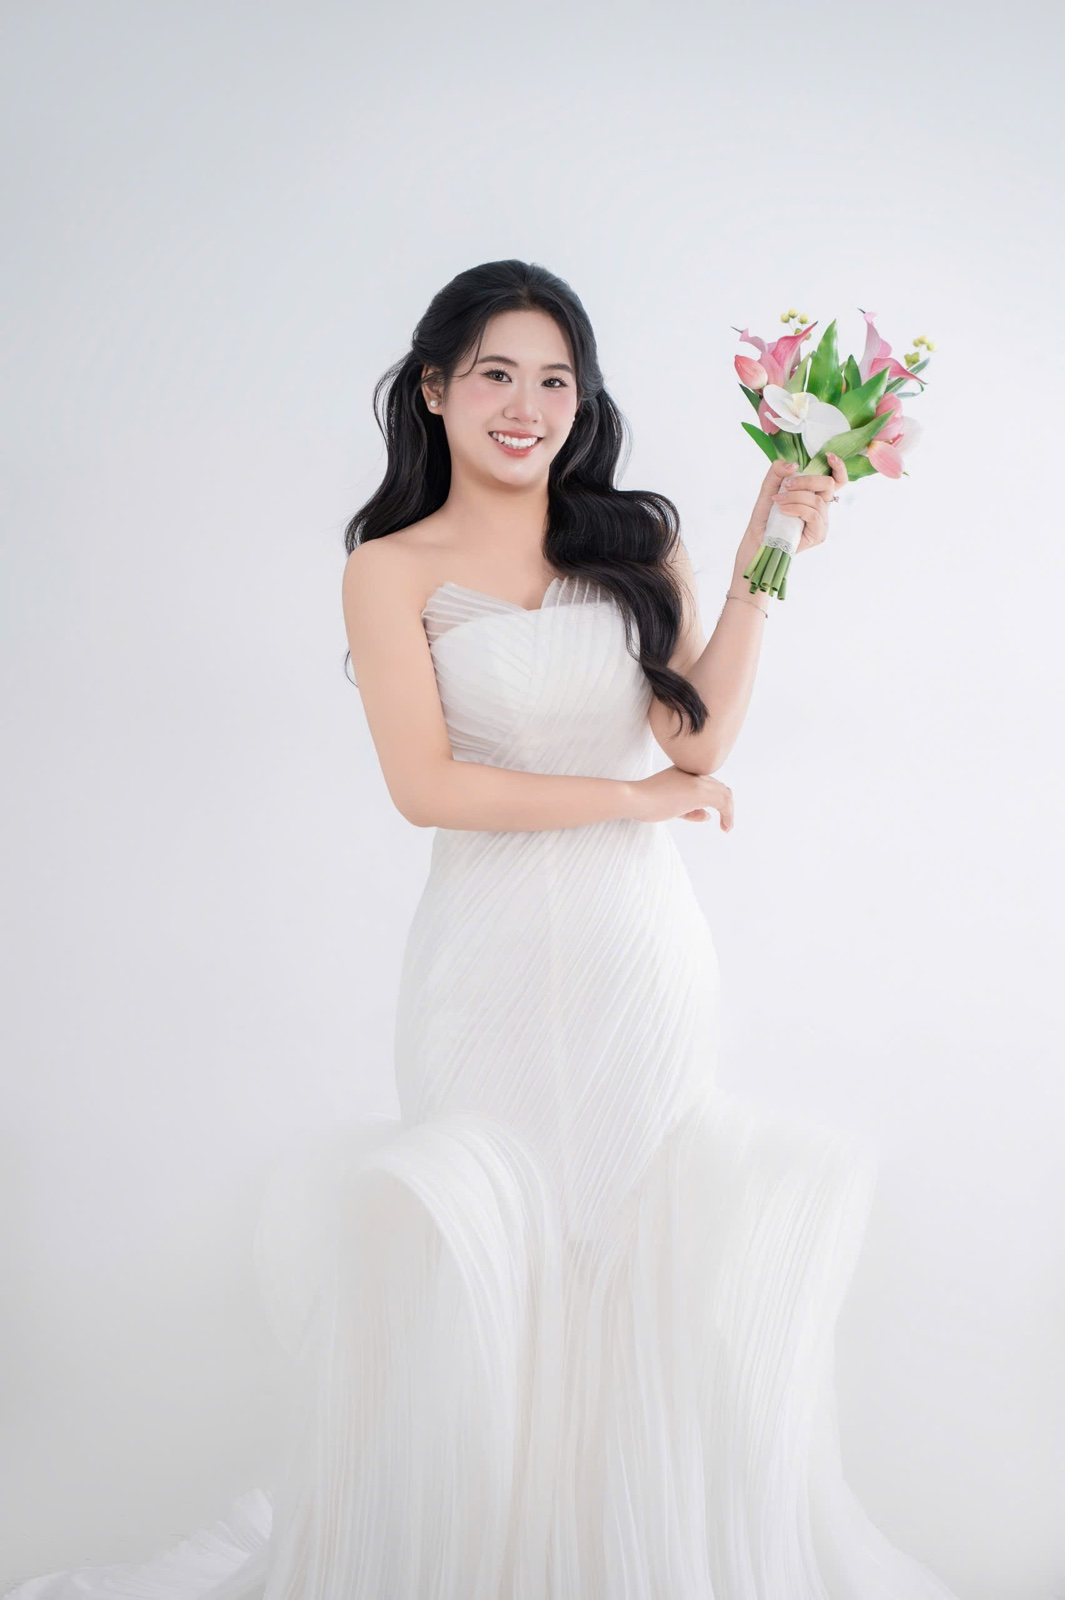
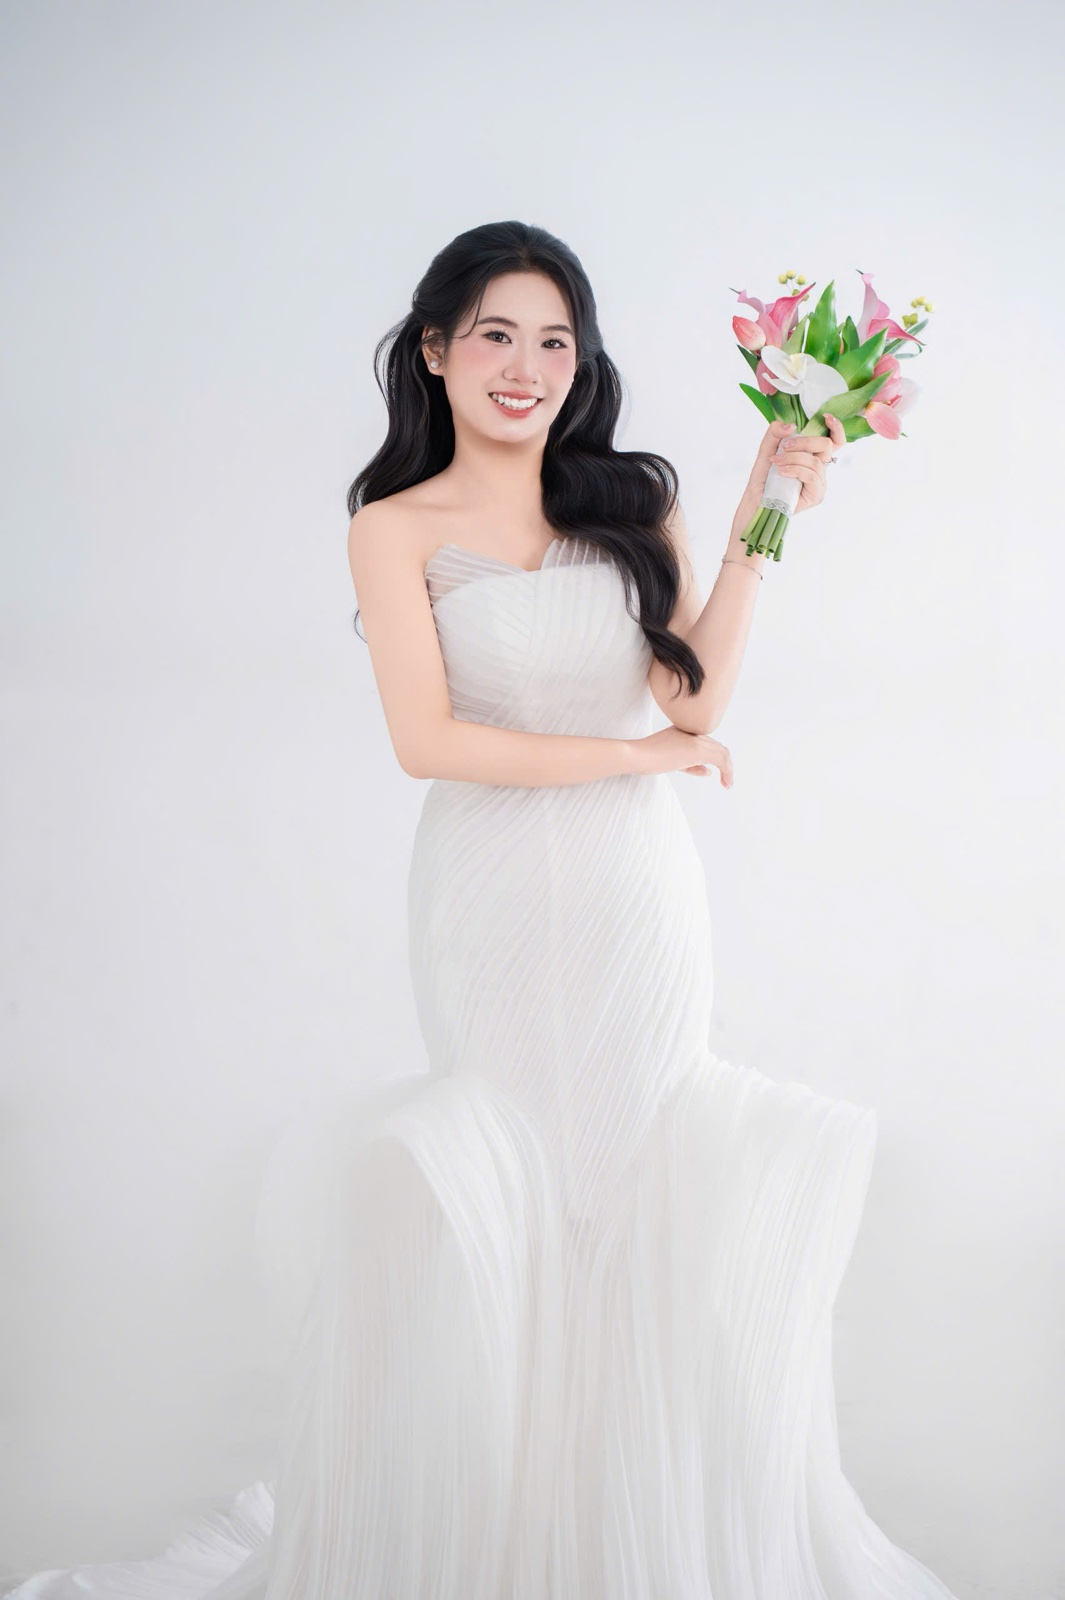
fix: album chỉ gồm ảnh chưa dùng ở các mục trên — thêm 8 ảnh khách gửi trong bình luận, bản cắt sát thay 2 ảnh cũ trùng cảnh (issue #32)

Changed region(s): [[0.3099, 0.125, 0.8986, 0.5312]]

diff --git a/dist/assets/index-CCNkx_cG.js b/dist/assets/index-CCNkx_cG.js
@@ -104,7 +104,7 @@ Error generating stack: `+i.message+`
  * See the LICENSE file in the root directory of this source tree.
  */const rp=et("X",[["path",{d:"M18 6 6 18",key:"1bl5f8"}],["path",{d:"m6 6 12 12",key:"d8bk6v"}]]),lp="382 Ngô Quyền, Phường Lào Cai, Thành phố Lào Cai",yc="Xã Chất Bình, Tỉnh Ninh Bình",ip="Đường Ngô Quyền, Kim Tân, Phường Lào Cai, Tỉnh Lào Cai",op={label:"Nhà Gái",father:"Vũ Văn Đông",mother:"Nguyễn Thị Vang",address:lp},up={label:"Nhà Trai",father:"Trần Văn Phong",mother:"Đỗ Thị Bích",address:yc},sp={hero:{subtitle:"Save The Date",names:["Huyền Trang","Xuân Bình"],dateLine:"13 . 11 . 2026",quote:"We step into a new chapter together, hand in hand, ready to build our home and embrace a lifetime of love."},families:{sides:[op,up],fullNames:["Huyền Trang","Xuân Bình"]},invitation:{kicker:"Trân Trọng Kính Mời",defaultGuest:"Quý khách",title:`Tham Dự Lễ Vu Quy
 Của Hai Con Chúng Tôi`,dateParts:["13","11","2026"]},events:{mapLabel:"Xem chỉ đường",items:[{id:"vu-quy",title:"Tiệc Mừng Lễ Vu Quy",time:"10:30, Thứ Sáu",date:"13. 11. 2026",lunar:"( Tức Ngày 05 Tháng 10 Năm Bính Ngọ )",places:[{label:"Quảng Trường Tráng A Pao",address:ip,mapQuery:"22.482020,103.979747"}]},{id:"thanh-hon",title:"Lễ Thành Hôn",time:"09:00, Thứ Bảy",date:"14. 11. 2026",lunar:"( Tức Ngày 06 Tháng 10 Năm Bính Ngọ )",places:[{label:"Tư Gia Nhà Trai",address:yc,mapQuery:"20.128537,106.125285"}]}]},quoteImage:`Two hearts, one love,
-one beautiful journey`,timeline:{title:"Timeline",items:[{time:"10:30 - 13/11",label:"Lễ Vu Quy",icon:"bouquet"},{time:"09:00 - 14/11",label:"Lễ Thành Hôn",icon:"rings"}]},countdown:{title:"Countdown",target:"2026-11-13T10:30:00+07:00",labels:["Ngày","Giờ","Phút","Giây"]},calendar:{dateIso:"2026-11-13"},moments:{title:["Our","Moments"],captions:["Forever","Love you"],text:"A collection of memories we've shared together"},rsvp:{endpoint:"https://script.google.com/macros/s/AKfycbxGFb49383QZuzEF1D_sx_JSNSCecscN3j2aZShNuCGpbDiKK9bwoPawGo5Y_pKbacu/exec",coupleId:"huyen-trang-xuan-binh-nha-gai",coupleName:"Huyền Trang & Xuân Bình (nhà gái)",show:!0,askAttend:!0,title:"Xác Nhận Tham Dự",intro:"Hãy xác nhận tham dự để chúng mình chuẩn bị đón tiếp thật chu đáo. Trân Trọng!",placeholders:{name:"Họ và Tên",message:"Gửi lời chúc cho Dâu Rể",attend:"Bạn có tham dự không ?",guestCount:"Bạn đi bao nhiêu người ?"},attendYes:"Có, mình sẽ đến",attendNo:"Tiếc quá, hôm đấy mình bận mất rồi :(",submit:"Xác Nhận",sending:"Đang gửi...",error:"Gửi chưa được, bạn kiểm tra mạng rồi thử lại nhé!",thanks:"Cảm ơn bạn! Lời chúc của bạn đã được ghi nhận."},gift:{button:"Gửi Mừng Cưới",title:"Hộp Quà Mừng Cưới",copyLabel:"Copy STK",copiedLabel:"Đã copy",saveQrLabel:"Lưu ảnh QR",accounts:[]},thanks:{title:"Thank You",text:"Từ tận đáy lòng, chúng mình cảm ơn bạn đã dành tình cảm và sự hiện diện cho ngày vui này. Chính bạn đã góp phần làm nên một kỷ niệm hạnh phúc mà chúng mình sẽ luôn trân trọng.",sign:"Huyền Trang & Xuân Bình"},music:{src:"/music/beautiful-in-white.mp3",volume:.45}},te={hero:"/images/ao-dai-1.jpg",dateStrip:["/images/co-dau-cuoi.jpg","/images/ao-dai-2.jpg","/images/chu-re-chao.jpg"],quote:"/images/nam-tay.jpg",countdown:"/images/hoa-1.jpg",moments:["/images/co-dau-hoa.jpg","/images/chao-doi.jpg","/images/chu-re.jpg"],album:["/images/nam-tay.jpg","/images/ao-dai-1.jpg","/images/co-dau-ngoi.jpg","/images/chu-re-chao.jpg","/images/co-dau-cuoi.jpg","/images/ao-dai-3.jpg","/images/hoa-1.jpg","/images/studio-1.jpg","/images/ao-dai-2.jpg","/images/co-dau-hoa.jpg","/images/studio-2.jpg","/images/chu-re.jpg","/images/co-dau-dung.jpg","/images/co-dau-sau.jpg"],circle:"/images/voan.jpg",gift:"/images/studio-1.jpg",thankYou:"/images/ao-dai-3.jpg",deco:{heart:"/images/deco-heart.png",calla:"/images/deco-calla.png",callaCorner:"/images/deco-calla-corner.png",timeline:"/images/deco-timeline.png",wreath:"/images/deco-wreath.png",bouquet:"/images/deco-bouquet.png",fork:"/images/deco-fork.png",rings:"/images/deco-rings.png"}},Ju="guest-links:names",ap="/tao-link";function cp(){try{return window.location.pathname.replace(/\/+$/,"")===ap}catch{return!1}}function Jl(e,t){return`${e}/?khach=${encodeURIComponent(t)}`}async function fp(e){try{return await navigator.clipboard.writeText(e),!0}catch{const t=document.createElement("textarea");t.value=e,t.style.position="fixed",t.style.opacity="0",document.body.appendChild(t),t.select();const n=document.execCommand("copy");return document.body.removeChild(t),n}}function bu({text:e,label:t="Sao chép",className:n=""}){const[r,l]=T.useState(!1);async function i(){await fp(e)&&(l(!0),setTimeout(()=>l(!1),1500))}return s.jsxs("button",{type:"button",onClick:i,className:`inline-flex shrink-0 items-center gap-1.5 rounded-lg px-3 py-1.5 text-sm font-semibold transition ${r?"bg-green-600 text-white":"bg-[#9e3745] text-white hover:bg-[#7e2b37]"} ${n}`,children:[r?s.jsx(vc,{className:"h-4 w-4","aria-hidden":!0}):s.jsx(gc,{className:"h-4 w-4","aria-hidden":!0}),r?"Đã chép":t]})}function dp(){const e=T.useMemo(()=>window.location.origin,[]),[t,n]=T.useState(()=>{try{return localStorage.getItem(Ju)??""}catch{return""}}),[r,l]=T.useState(!0);T.useEffect(()=>{try{localStorage.setItem(Ju,t)}catch{}},[t]);const i=T.useMemo(()=>{const a=new Set;return t.split(`
+one beautiful journey`,timeline:{title:"Timeline",items:[{time:"10:30 - 13/11",label:"Lễ Vu Quy",icon:"bouquet"},{time:"09:00 - 14/11",label:"Lễ Thành Hôn",icon:"rings"}]},countdown:{title:"Countdown",target:"2026-11-13T10:30:00+07:00",labels:["Ngày","Giờ","Phút","Giây"]},calendar:{dateIso:"2026-11-13"},moments:{title:["Our","Moments"],captions:["Forever","Love you"],text:"A collection of memories we've shared together"},rsvp:{endpoint:"https://script.google.com/macros/s/AKfycbxGFb49383QZuzEF1D_sx_JSNSCecscN3j2aZShNuCGpbDiKK9bwoPawGo5Y_pKbacu/exec",coupleId:"huyen-trang-xuan-binh-nha-gai",coupleName:"Huyền Trang & Xuân Bình (nhà gái)",show:!0,askAttend:!0,title:"Xác Nhận Tham Dự",intro:"Hãy xác nhận tham dự để chúng mình chuẩn bị đón tiếp thật chu đáo. Trân Trọng!",placeholders:{name:"Họ và Tên",message:"Gửi lời chúc cho Dâu Rể",attend:"Bạn có tham dự không ?",guestCount:"Bạn đi bao nhiêu người ?"},attendYes:"Có, mình sẽ đến",attendNo:"Tiếc quá, hôm đấy mình bận mất rồi :(",submit:"Xác Nhận",sending:"Đang gửi...",error:"Gửi chưa được, bạn kiểm tra mạng rồi thử lại nhé!",thanks:"Cảm ơn bạn! Lời chúc của bạn đã được ghi nhận."},gift:{button:"Gửi Mừng Cưới",title:"Hộp Quà Mừng Cưới",copyLabel:"Copy STK",copiedLabel:"Đã copy",saveQrLabel:"Lưu ảnh QR",accounts:[]},thanks:{title:"Thank You",text:"Từ tận đáy lòng, chúng mình cảm ơn bạn đã dành tình cảm và sự hiện diện cho ngày vui này. Chính bạn đã góp phần làm nên một kỷ niệm hạnh phúc mà chúng mình sẽ luôn trân trọng.",sign:"Huyền Trang & Xuân Bình"},music:{src:"/music/beautiful-in-white.mp3",volume:.45}},te={hero:"/images/ao-dai-1.jpg",dateStrip:["/images/co-dau-cuoi.jpg","/images/ao-dai-2.jpg","/images/chu-re-chao.jpg"],quote:"/images/nam-tay.jpg",countdown:"/images/hoa-1.jpg",moments:["/images/co-dau-hoa.jpg","/images/chao-doi.jpg","/images/chu-re.jpg"],album:["/images/hoa-2.jpg","/images/voan-2.jpg","/images/co-dau-ngoi.jpg","/images/quan-phuc.jpg","/images/studio-3.jpg","/images/co-dau-dung.jpg","/images/hoa-3.jpg","/images/studio-2.jpg","/images/studio-4.jpg","/images/studio-1.jpg"],circle:"/images/voan.jpg",gift:"/images/co-dau-sau.jpg",thankYou:"/images/ao-dai-3.jpg",deco:{heart:"/images/deco-heart.png",calla:"/images/deco-calla.png",callaCorner:"/images/deco-calla-corner.png",timeline:"/images/deco-timeline.png",wreath:"/images/deco-wreath.png",bouquet:"/images/deco-bouquet.png",fork:"/images/deco-fork.png",rings:"/images/deco-rings.png"}},Ju="guest-links:names",ap="/tao-link";function cp(){try{return window.location.pathname.replace(/\/+$/,"")===ap}catch{return!1}}function Jl(e,t){return`${e}/?khach=${encodeURIComponent(t)}`}async function fp(e){try{return await navigator.clipboard.writeText(e),!0}catch{const t=document.createElement("textarea");t.value=e,t.style.position="fixed",t.style.opacity="0",document.body.appendChild(t),t.select();const n=document.execCommand("copy");return document.body.removeChild(t),n}}function bu({text:e,label:t="Sao chép",className:n=""}){const[r,l]=T.useState(!1);async function i(){await fp(e)&&(l(!0),setTimeout(()=>l(!1),1500))}return s.jsxs("button",{type:"button",onClick:i,className:`inline-flex shrink-0 items-center gap-1.5 rounded-lg px-3 py-1.5 text-sm font-semibold transition ${r?"bg-green-600 text-white":"bg-[#9e3745] text-white hover:bg-[#7e2b37]"} ${n}`,children:[r?s.jsx(vc,{className:"h-4 w-4","aria-hidden":!0}):s.jsx(gc,{className:"h-4 w-4","aria-hidden":!0}),r?"Đã chép":t]})}function dp(){const e=T.useMemo(()=>window.location.origin,[]),[t,n]=T.useState(()=>{try{return localStorage.getItem(Ju)??""}catch{return""}}),[r,l]=T.useState(!0);T.useEffect(()=>{try{localStorage.setItem(Ju,t)}catch{}},[t]);const i=T.useMemo(()=>{const a=new Set;return t.split(`
 `).map(c=>c.replace(/\s+/g," ").trim()).filter(c=>c&&!a.has(c.toLowerCase())&&a.add(c.toLowerCase()))},[t]),o=i.map(a=>r?`${a}: ${Jl(e,a)}`:Jl(e,a)),u=document.title;return s.jsx("div",{className:"min-h-screen bg-[#f8f6f2] px-4 py-8 font-sans text-[#1f1f1f]",children:s.jsxs("main",{className:"mx-auto max-w-[640px]",children:[s.jsx("h1",{className:"text-2xl font-bold",children:"Tạo link mời khách"}),s.jsxs("p",{className:"mt-1 text-sm text-black/60",children:["Thiệp: ",s.jsx("b",{children:u})]}),s.jsx("label",{className:"mt-6 block text-sm font-semibold",htmlFor:"guest-names",children:"Tên khách mời — mỗi dòng một người, ghi cả xưng hô (vd: Cô Lan, Gia đình bác Hùng, Anh Tuấn)"}),s.jsx("textarea",{id:"guest-names",value:t,onChange:a=>n(a.target.value),rows:8,placeholder:`Cô Lan
 Gia đình bác Hùng
 Anh Tuấn & chị Mai`,className:"mt-2 w-full rounded-xl border border-black/20 bg-white p-3 text-base outline-none focus:border-[#9e3745]"}),s.jsx("p",{className:"mt-1 text-xs text-black/50",children:"Danh sách được lưu trên trình duyệt này, mở lại trang vẫn còn."}),i.length>0&&s.jsxs(s.Fragment,{children:[s.jsxs("div",{className:"mt-6 flex flex-wrap items-center justify-between gap-3",children:[s.jsxs("p",{className:"font-semibold",children:[i.length," link"]}),s.jsxs("div",{className:"flex items-center gap-3",children:[s.jsxs("label",{className:"flex items-center gap-1.5 text-sm",children:[s.jsx("input",{type:"checkbox",checked:r,onChange:a=>l(a.target.checked)}),"Kèm tên khi chép tất cả"]}),s.jsx(bu,{text:o.join(`

diff --git a/src/image.js b/src/image.js
@@ -13,27 +13,23 @@ export const images = {
   countdown: '/images/hoa-1.jpg',
   /** Our Moments: ảnh dọc trên, ảnh nhỏ phải (ảnh ngang), ảnh lớn dưới */
   moments: ['/images/co-dau-hoa.jpg', '/images/chao-doi.jpg', '/images/chu-re.jpg'],
-  /** Ảnh lớn + dải ảnh nhỏ — số chẵn ảnh, chỉ ảnh dọc */
+  /** Ảnh lớn + dải ảnh nhỏ — số chẵn ảnh, chỉ ảnh dọc, không lặp ảnh đã dùng ở các mục khác (khách yêu cầu) */
   album: [
-    '/images/nam-tay.jpg',
-    '/images/ao-dai-1.jpg',
+    '/images/hoa-2.jpg',
+    '/images/voan-2.jpg',
     '/images/co-dau-ngoi.jpg',
-    '/images/chu-re-chao.jpg',
-    '/images/co-dau-cuoi.jpg',
-    '/images/ao-dai-3.jpg',
-    '/images/hoa-1.jpg',
-    '/images/studio-1.jpg',
-    '/images/ao-dai-2.jpg',
-    '/images/co-dau-hoa.jpg',
-    '/images/studio-2.jpg',
-    '/images/chu-re.jpg',
+    '/images/quan-phuc.jpg',
+    '/images/studio-3.jpg',
     '/images/co-dau-dung.jpg',
-    '/images/co-dau-sau.jpg',
+    '/images/hoa-3.jpg',
+    '/images/studio-2.jpg',
+    '/images/studio-4.jpg',
+    '/images/studio-1.jpg',
   ],
   /** Ảnh tròn cạnh nút mừng cưới */
   circle: '/images/voan.jpg',
   /** Ảnh trong hộp quà mừng cưới */
-  gift: '/images/studio-1.jpg',
+  gift: '/images/co-dau-sau.jpg',
   /** Ảnh mục Thank You — mặt ở 1/3 trên */
   thankYou: '/images/ao-dai-3.jpg',
 

diff --git a/dist/index.html b/dist/index.html
@@ -24,7 +24,7 @@
       href="https://fonts.googleapis.com/css2?family=Cormorant+Garamond:wght@400;500;600&family=Imperial+Script&family=Lora:ital,wght@0,400;0,700;1,400&family=Montserrat:wght@600;700&family=Noto+Serif&family=Pinyon+Script&family=Quicksand:wght@400;500;600&family=Taviraj:ital@0;1&family=Tinos&family=Trirong:ital@0;1&display=swap"
       rel="stylesheet"
     />
-    <script type="module" crossorigin src="/assets/index-x7CkbO5h.js"></script>
+    <script type="module" crossorigin src="/assets/index-CCNkx_cG.js"></script>
     <link rel="stylesheet" crossorigin href="/assets/index-jIhQO3nk.css">
   </head>
   <body>
